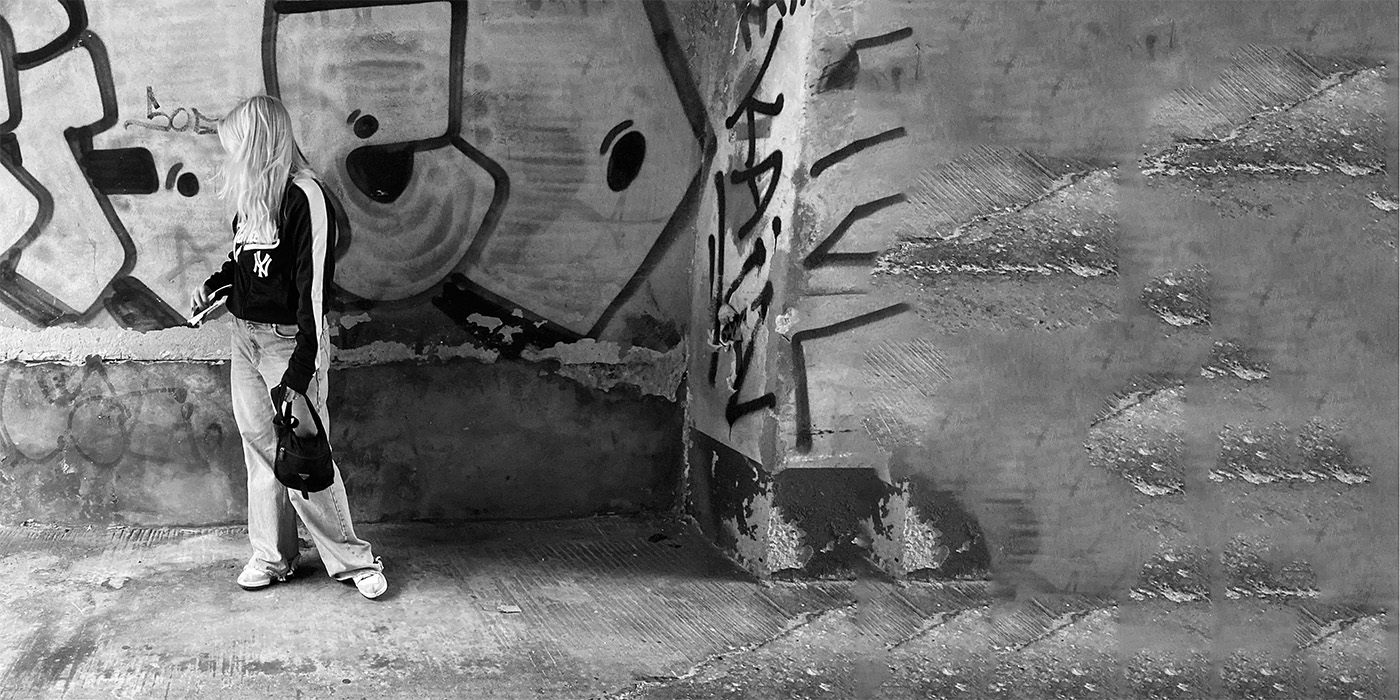
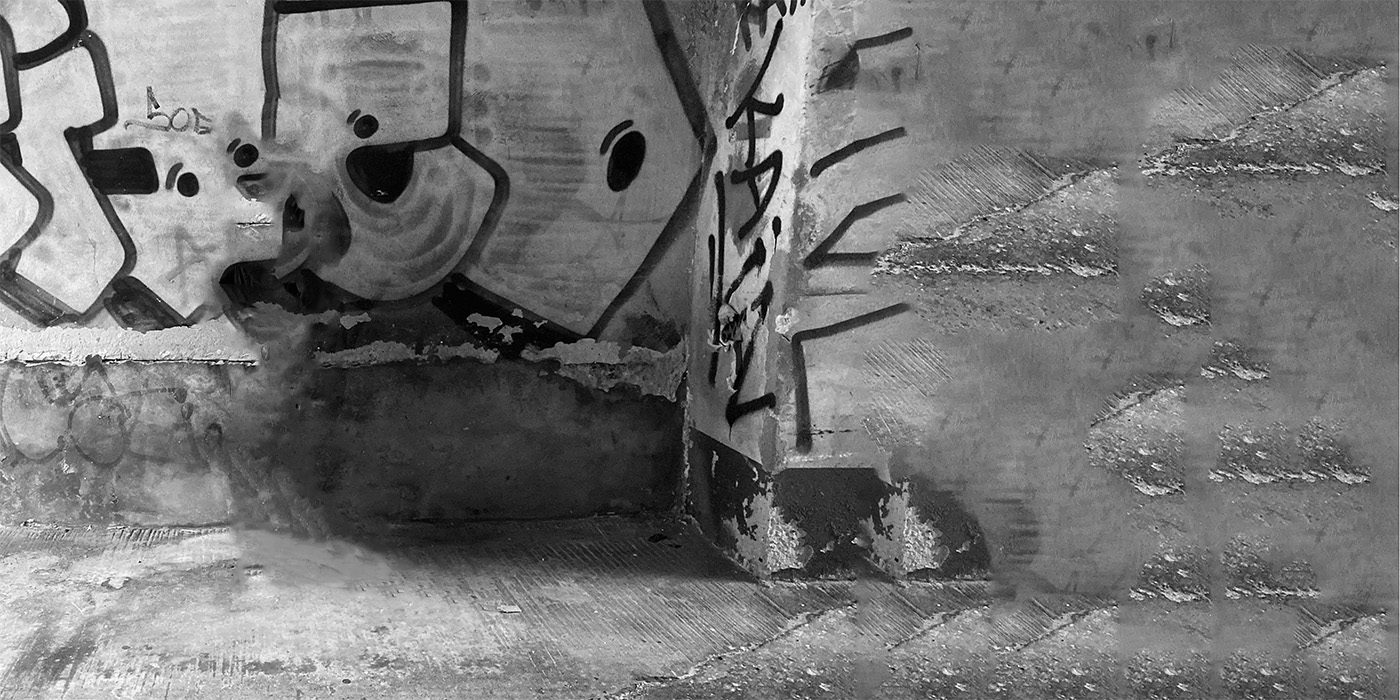
nyt baggrundsbillede på shoppen

Changed region(s): [[0.1229, 0.12, 0.3379, 0.87]]

diff --git a/index.html b/index.html
@@ -21,19 +21,19 @@
 
         <section class="shop">
             <div class="damer">
-                <h1>Dametøj</h1>
-                <h2>Shop</h2>
+                <h1 id="nottarget">Dametøj</h1>
+                <h2 id="nottarget">Shop</h2>
             </div>
             <div class="herre">
-                <h1>Herretøj</h1>
-                <h2>Shop</h2>
+                <h1 id="nottarget">Herretøj</h1>
+                <h2 id="nottarget">Shop</h2>
             </div>
             <div class="interiør">
                 <h1 id="interiørtop">IN</h1>
-                <h1>TE</h1>
-                <h1>RI</h1>
-                <h1>ØR</h1>
-                <h2>Shop</h2>
+                <h1 id="nottarget">TE</h1>
+                <h1 id="nottarget">RI</h1>
+                <h1 id="nottarget">ØR</h1>
+                <h2 id="nottarget">Shop</h2>
             </div>
         </section>
 

diff --git a/styles.css b/styles.css
@@ -33,7 +33,6 @@
     background-repeat: no-repeat;
     background-position: center;
     background-size: cover;
-
 }
 
 .shop div {
@@ -50,10 +49,16 @@ width: 100%;
     margin-left: 170px;
     padding: 10px;
     box-shadow: 0px 0px 15px #000000;
+    background-image: url(images/damer.jpg);
+    background-size: cover;
 }
-.damer :hover {
-    width: 350px;
-    height: 650px;
+.shop :hover { 
+    transform: scale(1.1);
+    transition: 0.25s;
+}
+
+#nottarget, #interiørtop {
+    transform: scale(1.0);
 }
 
 .herre {
